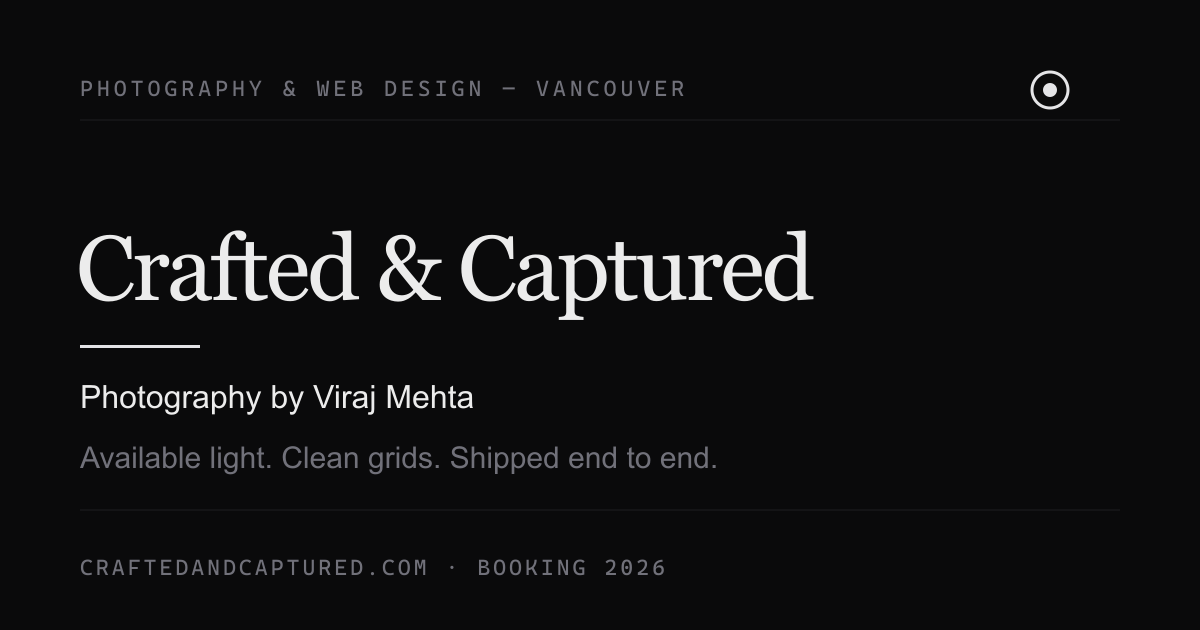
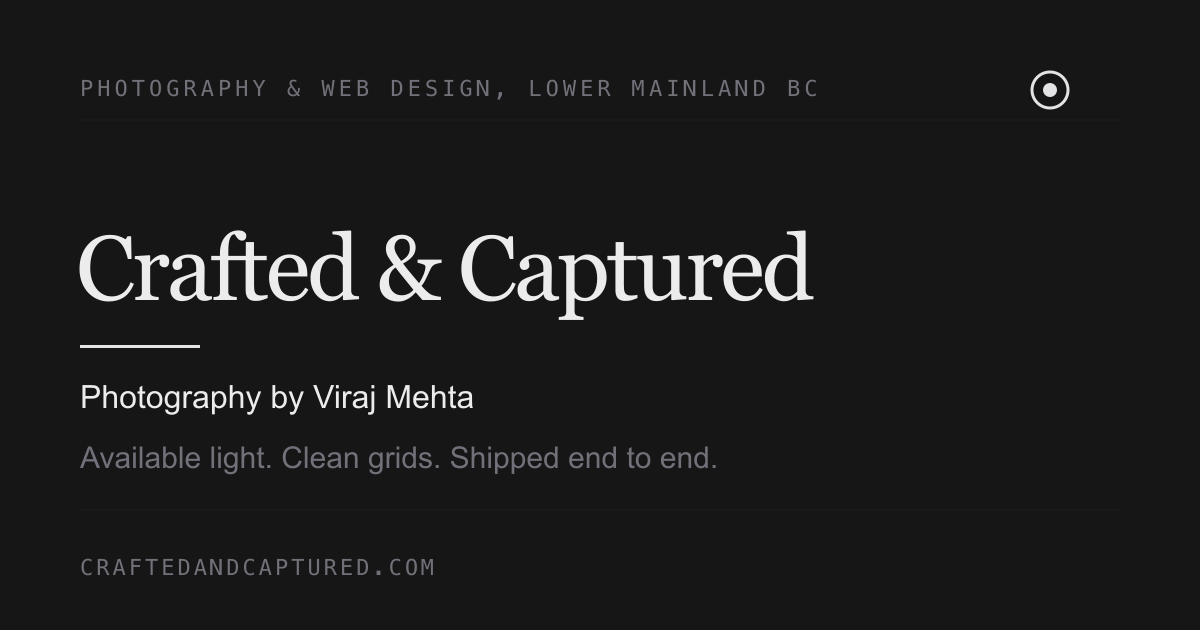
some layout changes made

Changed region(s): [[0.0617, 0.1206, 0.6783, 0.1508], [0.0617, 0.8746, 0.37, 0.9349], [0.4008, 0.8746, 0.555, 0.9349]]

diff --git a/src/data.js b/src/data.js
@@ -39,8 +39,11 @@ export const P = {
   photoBrand: "Lensofviraj",    // the photography practice — /photography
   email: "craftedandcaptured@gmail.com",  // the only contact address — no personal ones
   phone: "+1 (672) 968-9680",
-  city: "Vancouver",
-  area: "Lower Mainland",       // the wider area he actually travels for
+  /* One place name, not two. It was city + area ("Vancouver · Lower
+     Mainland"), which names the same ground twice — Vancouver is IN the
+     Lower Mainland — and the copy rule says a fact gets stated once. The
+     wider area is also the true answer: it is what he travels for. */
+  area: "Lower Mainland",
   region: "British Columbia, Canada",
   socials: [
     { k: "Instagram", v: "@lensofviraj", href: "https://www.instagram.com/lensofviraj/" },
@@ -64,7 +67,7 @@ export const P = {
 export const INTRO = {
   lead: "Engineering taught him how things work. Design and photography taught him how they feel.",
   body: [
-    "Viraj Mehta is a designer and photographer based in Vancouver. With a background in Computer Engineering and Web & Mobile Application Design, he blends technology, creativity and storytelling, designing intuitive digital products and capturing moments through photography.",
+    "Viraj Mehta is a designer and photographer based in the Lower Mainland, British Columbia. With a background in Computer Engineering and Web & Mobile Application Design, he blends technology, creativity and storytelling, designing intuitive digital products and capturing moments through photography.",
     "Under Lensofviraj he shoots portraits, events and visual stories; as a designer he draws the apps and sites those pictures end up on. Every screen is prototyped in Figma and handed over ready to build, so nothing gets cropped, re-shot, or lost in a handover between two strangers.",
   ],
   /* the two doors — the practice cards under the home hero. The card
@@ -494,7 +497,7 @@ export const ABOUT = {
     { y: "2014", t: "First point-and-shoot camera. Curiosity becomes a habit." },
     { y: "2018", t: "First DSLR. Photography turns serious, and he starts teaching it." },
     { y: "2019", t: "Leads the college photography group: shoots, collabs, mentoring." },
-    { y: "Today", t: "Vancouver. Designing digital products, shooting as Lensofviraj." },
+    { y: "Today", t: "Lower Mainland. Designing digital products, shooting as Lensofviraj." },
   ],
   kit: [
     { k: "Camera", v: "Sony A7 IV, A7 V" },
@@ -768,12 +771,20 @@ export const CSS = `
    leave the top third, the bottom third and both sides fully lit — at
    a *higher* gain than the one big pool allowed.
 
-     the low band  the quote and the attribution, y 532-580. Small,
-                   and the strongest at 90%: --dim at 11px is the
-                   tightest tier on the page and it is what bounds
-                   the whole effect.
-     the wide one  the headline row, y 378-476, at only 48% — --ink
-                   needs 3:1, not 4.5, so this one is a nudge.
+     the low band  the quote and the attribution, y 532-580, at 44%.
+     the wide one  the headline row, y 378-476, at 48%.
+
+   ⚠ **Both are deliberately too weak to carry the copy on their own,
+   and must stay that way.** The low band was once 90% over a small
+   ellipse, which is what --dim at 10px needs from a pool alone — and
+   at that strength it stopped reading as falloff and became a black
+   slab parked in the middle of the hero, with the ink visibly not
+   flowing through it. The client saw it immediately. Most of that job
+   now belongs to the text-shadows on .mast-sub and .mast-sub-by,
+   which protect the same letters in the shape of the letters, so
+   there is no edge to notice. These bands only make up the last
+   fraction of a point the shadows can't reach — the gaps between
+   10px glyphs tracked at .14em.
 
    ⚠ **Each is a plateau, not a simple falloff.** As plain centre-out
    gradients they have to be far stronger, because a line 483px wide
@@ -782,13 +793,26 @@ export const CSS = `
    box and faded only outside it, the same protection costs much less
    light.
 
-   Measured with the cursor orbiting **on** each line in turn, 72
+   Measured with the cursor orbiting **on** each line in turn, 64
    frames at 1440x900 — not sweeping past it, which is what a lazy
-   sample does and what hid an earlier failure. Worst pixel per tier:
-   roles 10.73:1, quote 6.13:1, attribution 4.99:1. Re-measure if the
-   palette, the gain, KNEE in InkField.jsx, the copy's colours **or
-   its layout** move — these bands are pinned to where the text
-   actually sits.
+   sample does and what hid an earlier failure. Worst pixel per tier,
+   over two consecutive runs: roles 11.34:1, quote 5.94:1, attribution
+   4.59:1, scroll cue 14.46:1. Take two runs — the field is stochastic
+   and single runs of the attribution swing about +-0.1, which is the
+   difference between passing and failing at that tier.
+   Re-measure if the palette, the gain, KNEE in InkField.jsx,
+   the copy's colours **or its layout** move — these bands are pinned
+   to where the text actually sits.
+
+   Two things the harness has to get right, or it measures fiction.
+   Set the copy to color: transparent rather than hiding it: a
+   text-shadow still paints from a transparent glyph, so that capture
+   is the true background a letter sits on, shadow included — hide the
+   text and you throw away most of the protection and chase the
+   shortfall with a slab. And measure **Range rects, not element
+   boxes**: .mast-sub-by is a 483px block holding ~180px of centred
+   glyphs, and charging the ink for 300px of empty space no letter
+   occupies costs about 0.5:1 of headroom for nothing.
 
    ⚠ **Two traps in measuring this, both of which produced confident
    wrong answers.** (1) Screenshot only once the loader is out of the
@@ -814,9 +838,9 @@ export const CSS = `
    scrim does nothing at all. */
 .mast-ink::before { content: ""; position: absolute; inset: 0; z-index: 1;
   background:
-    radial-gradient(ellipse 24% 8% at 50% 62%,
-      color-mix(in srgb, var(--bg) 90%, transparent) 0%,
-      color-mix(in srgb, var(--bg) 90%, transparent) 70%, transparent 100%),
+    radial-gradient(ellipse 46% 21% at 50% 61%,
+      color-mix(in srgb, var(--bg) 44%, transparent) 0%,
+      color-mix(in srgb, var(--bg) 44%, transparent) 24%, transparent 100%),
     radial-gradient(ellipse 44% 17% at 50% 47%,
       color-mix(in srgb, var(--bg) 48%, transparent) 0%,
       color-mix(in srgb, var(--bg) 48%, transparent) 52%, transparent 100%); }
@@ -845,7 +869,22 @@ export const CSS = `
 .mast-sub { margin-top: clamp(28px, 6vh, 64px); margin-inline: auto;
   max-width: 46ch; font-weight: 300;
   letter-spacing: -0.015em; line-height: 1.5; font-size: clamp(14px, 1.45vw, 17px);
-  color: color-mix(in srgb, var(--ink) 62%, transparent); }
+  color: color-mix(in srgb, var(--ink) 62%, transparent);
+  /* The quote's own contrast, carried by the letterforms instead of by
+     a pool behind them. This pair replaced most of .mast-ink::before's
+     low band: at the strength that band needed (90% of --bg over a
+     346x72px ellipse) it stopped reading as falloff and started
+     reading as a black slab sitting in the middle of the ink — the ink
+     visibly did not flow through it. A shadow is the same protection
+     shaped like the text, so there is no edge to notice: it darkens
+     the pixels the glyphs actually sit on and nothing else.
+
+     Two stops, because one can't do both jobs: the tight one carries
+     the contrast right at the stroke, the wide one keeps the tight one
+     from reading as an outline. Both are the page's own --bg, so this
+     is the ink thinning out under the letters rather than a glow. */
+  text-shadow: 0 0 4px color-mix(in srgb, var(--bg) 88%, transparent),
+               0 1px 14px color-mix(in srgb, var(--bg) 78%, transparent); }
 /* The quote marks belong to the quotation, not to the paragraph that
    holds it. On .mast-sub the ::after came after ALL of its content —
    including the attribution, which is display: block — so the closing
@@ -853,8 +892,14 @@ export const CSS = `
    Wrapped round the sentence itself, it closes where the sentence does. */
 .mast-quote::before { content: "\\201C"; color: var(--accent); }
 .mast-quote::after { content: "\\201D"; color: var(--accent); }
+/* Its own, heavier than the one it inherits from .mast-sub: --dim at
+   10px is the tightest tier in the hero and the one that has always set
+   the ceiling on how bright the ink can go. */
 .mast-sub-by { display: block; margin-top: 10px; font-size: 10px;
-  letter-spacing: .14em; text-transform: uppercase; color: var(--dim); }
+  letter-spacing: .14em; text-transform: uppercase; color: var(--dim);
+  text-shadow: 0 0 4px var(--bg),
+               0 0 10px var(--bg),
+               0 1px 18px color-mix(in srgb, var(--bg) 85%, transparent); }
 /* The first-scroll cue is deliberately part of the hero, not a fixed UI
    element: it disappears with the mast and never competes with the work
    below. The travelling dash is a lightweight CSS animation, with no
@@ -1584,8 +1629,14 @@ export const CSS = `
 .back { display: inline-flex; align-items: center; gap: 10px; margin-bottom: 40px; }
 .back .arrow { transition: transform .3s cubic-bezier(.2,.8,.2,1); }
 .back:hover .arrow { transform: translateX(-5px); }
-.detail-head { display: flex; justify-content: space-between; align-items: flex-end;
-  gap: 28px; flex-wrap: wrap; margin-bottom: 40px; }
+/* Centred, like every other heading on the site. It was a
+   space-between row — title hard left, role hard right — which is the
+   one header shape the site doesn't otherwise use, so a project page
+   announced itself differently from the section it was reached from.
+   Column, not row: the second item (the role, or the year) is a note
+   about the title and belongs under it, not opposite it. */
+.detail-head { display: flex; flex-direction: column; align-items: center;
+  text-align: center; gap: 14px; margin-bottom: 40px; }
 .detail-head h1 { font-weight: 300; letter-spacing: -0.01em; line-height: 1.08;
   font-size: clamp(36px, 6.5vw, 84px); text-wrap: balance; }
 .detail-fig { position: relative; overflow: hidden; border-radius: 4px; border: 1px solid var(--rule);
@@ -2160,6 +2211,18 @@ export const CSS = `
   object-fit: contain; transform: none; transition: none; }
 .pj-intro { font-weight: 300; letter-spacing: -0.02em; font-size: clamp(20px, 2.8vw, 34px);
   line-height: 1.32; max-width: 26ch; }
+/* The copy under the frame, centred under the centred frame.
+   ⚠ Scoped to .detail-pj, and it has to stay scoped. .detail-grid is a
+   two-column layout everywhere else — /design/:slug puts the intro
+   beside a spec list, /work/:seed puts the note beside one — and this
+   is the only page that passes it a single child, which is why its
+   text was sitting in a half-width column hard against the left while
+   the picture above it was centred. Collapsing the grid site-wide
+   would centre a <dl> of key/value rows, which is not a heading and
+   does not want centring. */
+.detail-pj .detail-grid { grid-template-columns: minmax(0, 1fr); }
+.detail-pj .pj-intro,
+.detail-pj .detail-note { margin-inline: auto; text-align: center; }
 
 /* masonry-ish grid: CSS columns keep the frames' own aspect ratios */
 .pgrid { columns: 3; column-gap: 18px; margin-top: 18px; }
@@ -2378,6 +2441,13 @@ export const CSS = `
   pointer-events: none; }
 .extlink .arrow { transition: transform .3s cubic-bezier(.2,.8,.2,1); }
 .extlink:hover .arrow { transform: translate(3px, -3px); }
+/* One step up, for the two home-page section CTAs that stand alone under
+   a grid of work. At the default 11px/14px a lone pill under three cards
+   reads as a footnote to the last card rather than as the section's next
+   step — it is the only thing on its line and has a whole row of the page
+   to itself. Everything else keeps the base size: this is a size for a
+   control with nothing beside it, not a new default. */
+.pf .extlink-lg { font-size: 12px; padding: 17px 34px; gap: 14px; }
 
 /* --- design detail screens --- */
 .screens { display: flex; flex-direction: column; gap: 24px; margin-top: 18px; }

diff --git a/index.html b/index.html
@@ -12,7 +12,7 @@
     <meta name="theme-color" content="#161616" />
     <meta
       name="description"
-      content="Photographer and web designer in Vancouver. Available light, clean grids, shipped end to end."
+      content="Photographer and web designer in the Lower Mainland, British Columbia. Available light, clean grids, shipped end to end."
     />
     <title>Crafted &amp; Captured · Photography by Viraj</title>
     <link rel="canonical" href="https://craftedandcaptured.com/" />
@@ -23,14 +23,14 @@
     <meta property="og:site_name" content="Crafted & Captured" />
     <meta property="og:url" content="https://craftedandcaptured.com/" />
     <meta property="og:title" content="Crafted & Captured · Photography by Viraj" />
-    <meta property="og:description" content="Photographer and web designer in Vancouver. Available light, clean grids, shipped end to end." />
+    <meta property="og:description" content="Photographer and web designer in the Lower Mainland, British Columbia. Available light, clean grids, shipped end to end." />
     <meta property="og:image" content="https://craftedandcaptured.com/og.png" />
     <meta property="og:image:type" content="image/png" />
     <meta property="og:image:width" content="1200" />
     <meta property="og:image:height" content="630" />
     <meta name="twitter:card" content="summary_large_image" />
     <meta name="twitter:title" content="Crafted & Captured · Photography by Viraj" />
-    <meta name="twitter:description" content="Photographer and web designer in Vancouver. Available light, clean grids, shipped end to end." />
+    <meta name="twitter:description" content="Photographer and web designer in the Lower Mainland, British Columbia. Available light, clean grids, shipped end to end." />
     <meta name="twitter:image" content="https://craftedandcaptured.com/og.png" />
 
     <!-- Structured data: helps Google understand who/what/where -->
@@ -40,7 +40,7 @@
         "@type": "ProfessionalService",
         "name": "Crafted & Captured",
         "alternateName": "Lensofviraj",
-        "description": "Photographer and web designer in Vancouver. Portraits, events and visual stories, plus web design and build.",
+        "description": "Photographer and web designer in the Lower Mainland, British Columbia. Portraits, events and visual stories, plus web design and build.",
         "url": "https://craftedandcaptured.com",
         "image": "https://craftedandcaptured.com/og.png",
         "email": "craftedandcaptured@gmail.com",
@@ -49,11 +49,10 @@
         "founder": { "@type": "Person", "name": "Viraj Mehta", "jobTitle": "Photographer & Designer" },
         "address": {
           "@type": "PostalAddress",
-          "addressLocality": "Vancouver",
           "addressRegion": "BC",
           "addressCountry": "CA"
         },
-        "areaServed": { "@type": "City", "name": "Vancouver" },
+        "areaServed": { "@type": "AdministrativeArea", "name": "Lower Mainland, British Columbia" },
         "knowsAbout": ["Photography", "Portrait Photography", "Event Photography", "Wildlife Photography", "Web Design", "UI/UX Design"],
         "sameAs": [
           "https://instagram.com/lensofviraj",

diff --git a/src/pages/Home.jsx b/src/pages/Home.jsx
@@ -66,7 +66,7 @@ const PHOTO_COPY = {
    Everything about the person lives on /about.
    ================================================================== */
 export default function Home() {
-  useSeo("", "Photographer and web designer in Vancouver. Portraits, events and visual stories, plus UI/UX and web design in Figma. Shot and designed by the same person.");
+  useSeo("", "Photographer and web designer in the Lower Mainland, British Columbia. Portraits, events and visual stories, plus UI/UX and web design in Figma. Shot and designed by the same person.");
   const { openContact } = useApp();
   const [reduced] = useState(prefersReduced);
   const [heavy] = useState(heavyVisualsAllowed);
@@ -330,15 +330,15 @@ export default function Home() {
           {/* the header keeps the reading measure; the work below it
               gets the wide column — see .wrap-wide */}
           <div className="wrap">
+            {/* No cta here: it sits under the work, the same way the
+                photography section's does. A visitor who has not seen a
+                project yet has no reason to press "all designs" — the
+                link is the next step after the three cards, not a
+                shortcut past them. */}
             <CenterHead
               kicker="Design"
               title="Prototyped, not mocked up."
-              sub="Every screen is wired and made clickable in Figma before a line of code exists. It is tested against real flows, specced, and ready for a developer to pick up."
-              cta={
-                <TLink to="/design" className="extlink">
-                  All designs <span className="arrow">→</span>
-                </TLink>
-              }
+              sub="It's tested against real flows, fully documented with the details needed for development, and ready for a developer to build."
             />
           </div>
 
@@ -384,6 +384,12 @@ export default function Home() {
                   </TLink>
                 </Reveal>
               ))}
+            </div>
+
+            <div className="dshow-cta collections-cta">
+              <TLink to="/design" className="extlink extlink-lg">
+                All designs <span className="arrow">→</span>
+              </TLink>
             </div>
           </div>
         </section>
@@ -877,7 +883,7 @@ function PhotoProjects() {
         {/* below the work, same as the design section's — the beat above
             is a statement and a call to action would have undercut it */}
         <div className="dshow-cta collections-cta">
-          <TLink to="/photography" className="extlink">
+          <TLink to="/photography" className="extlink extlink-lg">
             All collections <span className="arrow">→</span>
           </TLink>
         </div>

diff --git a/src/pages/PhotoProject.jsx b/src/pages/PhotoProject.jsx
@@ -35,7 +35,7 @@ export default function PhotoProject() {
 
   useSeo(
     p ? `${p.t} · Photography` : "Photography",
-    p ? (p.note || p.intro || `${p.t}, a photography set by Viraj Mehta, Vancouver.`) : "",
+    p ? (p.note || p.intro || `${p.t}, a photography set by Viraj Mehta in the Lower Mainland, British Columbia.`) : "",
   );
 
   /* No parallax on the hero: it worked by scaling the picture to 1.12 and
@@ -73,8 +73,10 @@ export default function PhotoProject() {
             style={{ aspectRatio: ratio(p.photos[0], 16, 9) }} />
         </figure>
 
-        {/* still .detail-grid with one child: the intro keeps its half-width
-            column and the 56px it sits below the hero */}
+        {/* .detail-grid with one child. It keeps the 56px it sits below
+            the hero; the single-column collapse and the centring are in
+            the .detail-pj rules in data.js, not here — the grid is still
+            two columns on the other detail pages. */}
         <div className="detail-grid">
           <Reveal>
             <p className="pj-intro">{p.intro}</p>

diff --git a/src/InkField.jsx b/src/InkField.jsx
@@ -334,7 +334,14 @@ void main() {
    the peak at 1/KNEE. The ink now goes deep violet where it is thick,
    not white, and the worst case is a number that can be reasoned
    about rather than whatever the sampler happened to catch. */
-const KNEE = 1.35;   // peak channel = 1/1.35 ≈ 0.74, so never white
+/* Bounds the peak at 1/KNEE, and it is the honest lever for the worst
+   case. Nudging the scrim instead chases noise: the worst pixel is
+   whatever the densest core happened to be that run, so 46% and 58%
+   bands measured the same within +-0.1. Raising KNEE pulls the bright
+   cores down and leaves the broad field alone (for small m the scale
+   is ~1), which is exactly the shape of the problem — the field was
+   never too bright on average, only at the cores. */
+const KNEE = 2.3;    // peak channel = 1/2.3 = 0.43, so a core never blows out
 const FRAG_DISPLAY = `
 precision highp float;
 uniform sampler2D uTex;

diff --git a/src/pages/Photography.jsx b/src/pages/Photography.jsx
@@ -37,7 +37,7 @@ const PROCESS = [
    vertical flow, each opening /photography/:slug.
    ================================================================== */
 export default function Photography() {
-  useSeo("Photography", "Portrait, event and visual-story photography by Viraj Mehta (Lensofviraj), Vancouver: traditional, wildlife and modern collections, each shown as a complete edit.");
+  useSeo("Photography", "Portrait, event and visual-story photography by Viraj Mehta (Lensofviraj) in the Lower Mainland, British Columbia: traditional, wildlife and modern collections, each shown as a complete edit.");
   const { openContact } = useApp();
   const [i, setI] = useState(0);
   const [reduced] = useState(prefersReduced);

diff --git a/src/pages/Design.jsx b/src/pages/Design.jsx
@@ -63,7 +63,7 @@ function Preview({ w, reduced, sizes, eager = false }) {
    sites or code. See the INTRO note in data.js.
    ================================================================== */
 export default function Design() {
-  useSeo("Design", "UI/UX and web design by Viraj Mehta, Vancouver: apps and sites designed screen by screen in Figma, handed over as interactive prototypes ready to build.");
+  useSeo("Design", "UI/UX and web design by Viraj Mehta in the Lower Mainland, British Columbia: apps and sites designed screen by screen in Figma, handed over as interactive prototypes ready to build.");
   const { openContact } = useApp();
   const [reduced] = useState(prefersReduced);
   const root = useRef(null);

diff --git a/src/pages/About.jsx b/src/pages/About.jsx
@@ -29,7 +29,7 @@ const page = {
    CTA and colophon as the rest of this site uses.
    ================================================================== */
 export default function About() {
-  useSeo("About Viraj Mehta", "Viraj Mehta is a designer and photographer in Vancouver, blending engineering, design and photography into digital products and visual stories.");
+  useSeo("About Viraj Mehta", "Viraj Mehta is a designer and photographer in the Lower Mainland, British Columbia, blending engineering, design and photography into digital products and visual stories.");
   const { openContact } = useApp();
   const [reduced] = useState(prefersReduced);
   const [heavy] = useState(heavyVisualsAllowed);

diff --git a/src/ui.jsx b/src/ui.jsx
@@ -451,7 +451,7 @@ export function Colophon({ back = false }) {
         </div>
         <div>
           <dt className="mono">Based in</dt>
-          <dd>{P.city} · {P.area}<br />{P.region}</dd>
+          <dd>{P.area}<br />{P.region}</dd>
         </div>
         <div>
           <dt className="mono">Elsewhere</dt>
